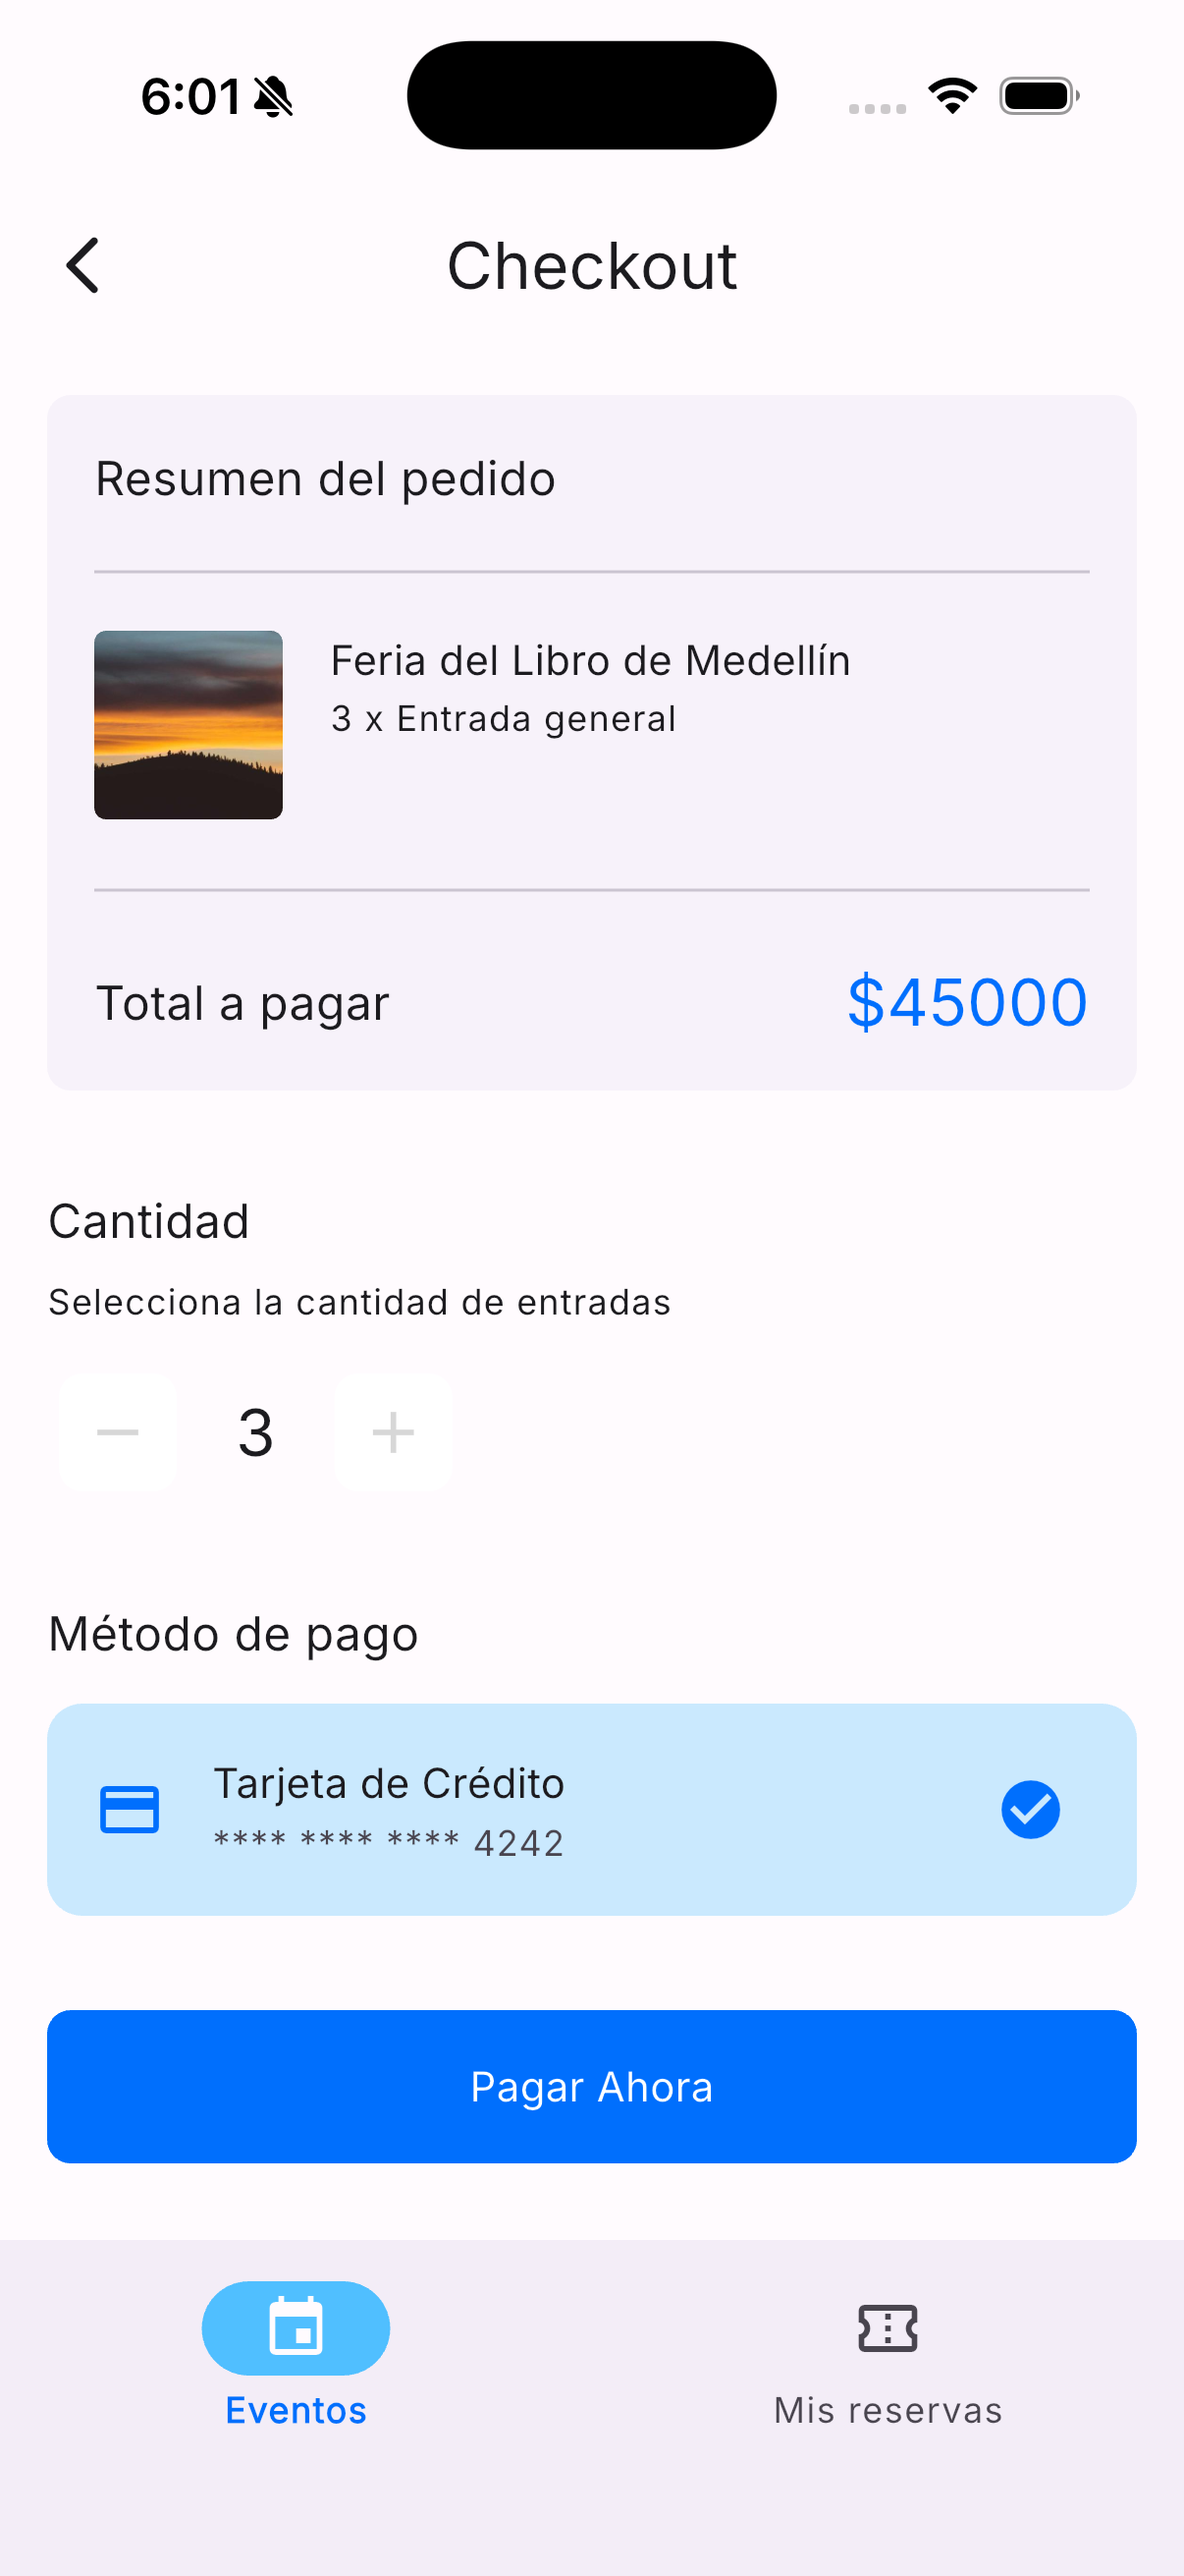
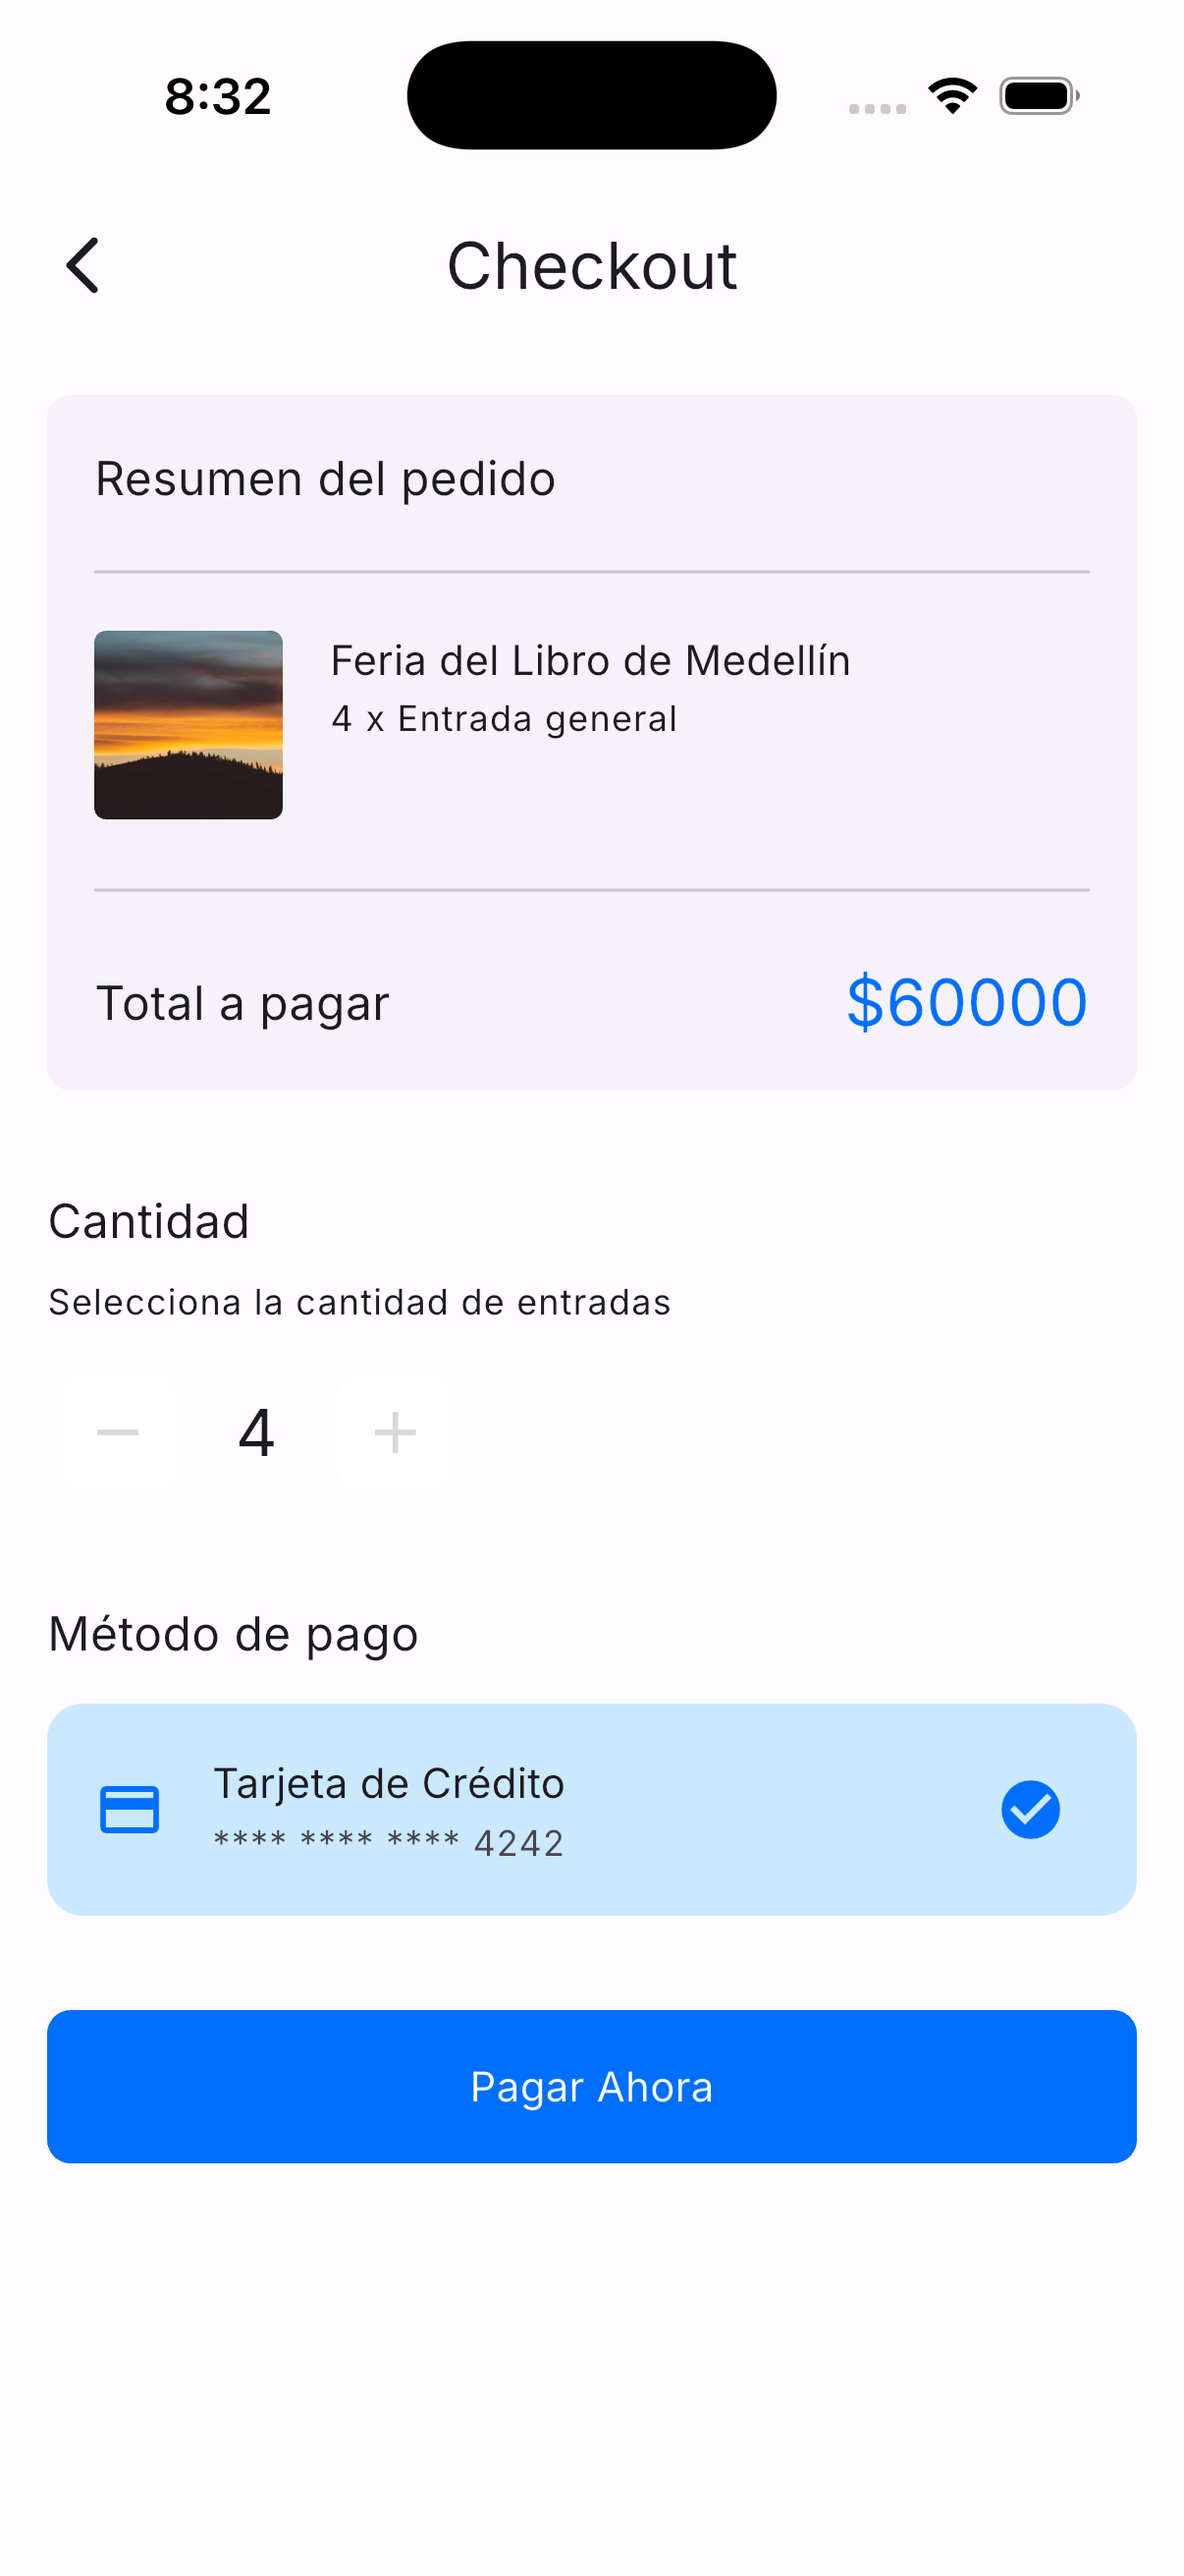
refactor: move detail and booking routes outside navigation shell
Routing: Moved eventDetail and booking routes to the root level in app_router.dart to provide a full-screen experience (removing them from the StatefulShellRoute).
•
Constants: Updated AppRoutes to reflect the new root-level paths.
•
UX: Replaced context.go with context.push for event details and bookings to ensure proper back-stack behavior.
•
Booking Flow: Optimized the post-booking success logic by invalidating bookingListProvider and using a smoother transition to the bookings tab.

diff --git a/lib/core/router/app_router.dart b/lib/core/router/app_router.dart
@@ -78,47 +78,19 @@ GoRouter appRouter(Ref ref) {
       ),
 
       /// Shell con navegación por tabs. Mantiene el estado de cada rama
-      /// gracias a [StatefulShellRoute.indexedStack].
       StatefulShellRoute.indexedStack(
         builder: (context, state, navigationShell) =>
             MainShell(navigationShell: navigationShell),
         branches: [
-          /// Rama 1 — Eventos.
-          ///
-          /// Árbol de rutas:
-          ///   /events
-          ///   /events/detail
-          ///   /events/detail/booking
           StatefulShellBranch(
             routes: [
               GoRoute(
                 path: AppRoutes.events,
                 builder: (_, _) => const EventListPage(),
-                routes: [
-                  GoRoute(
-                    path: AppRoutes.eventDetailPath,
-                    // Recibe un [EventEntity] por `state.extra`.
-                    builder: (_, state) {
-                      final event = state.extra as EventEntity;
-                      return EventDetailPage(event: event);
-                    },
-                    routes: [
-                      GoRoute(
-                        path: AppRoutes.eventBookingPath,
-                        // Recibe un [EventEntity] por `state.extra`.
-                        builder: (_, state) {
-                          final event = state.extra as EventEntity;
-                          return BookingPage(event: event);
-                        },
-                      ),
-                    ],
-                  ),
-                ],
+                // Sin rutas anidadas aquí
               ),
             ],
           ),
-
-          /// Rama 2 — Reservas del usuario.
           StatefulShellBranch(
             routes: [
               GoRoute(
@@ -126,6 +98,23 @@ GoRouter appRouter(Ref ref) {
                 builder: (_, _) => const BookingListPage(),
               ),
             ],
+          ),
+        ],
+      ),
+
+      GoRoute(
+        path: AppRoutes.eventDetail,
+        builder: (_, state) {
+          final event = state.extra as EventEntity;
+          return EventDetailPage(event: event);
+        },
+        routes: [
+          GoRoute(
+            path: AppRoutes.eventBookingPath,
+            builder: (_, state) {
+              final event = state.extra as EventEntity;
+              return BookingPage(event: event);
+            },
           ),
         ],
       ),

diff --git a/lib/features/booking/presentation/pages/booking/booking_page.dart b/lib/features/booking/presentation/pages/booking/booking_page.dart
@@ -1,4 +1,5 @@
 import 'package:app_ui_kit/app_ui_kit.dart';
+import 'package:eventix/features/booking/presentation/pages/booking_list/providers/booking_list_provider.dart';
 import 'package:flutter/material.dart';
 import 'package:flutter_riverpod/flutter_riverpod.dart';
 import 'package:go_router/go_router.dart';
@@ -33,15 +34,13 @@ class BookingPage extends ConsumerWidget {
         isFree: event.isFree,
         eventTitle: event.title,
         totalPrice: totalPrice,
-        onOkPressed: () {
-          context.pop();
+        onOkPressed: () async {
           ref.invalidate(eventsProvider);
-          // 1. Resetea el stack del tab de eventos a su raíz
-          context.go(AppRoutes.events);
-          // 2. Luego navega al tab de bookings
-          WidgetsBinding.instance.addPostFrameCallback((_) {
-            context.go(AppRoutes.bookings);
-          });
+          ref.invalidate(bookingListProvider);
+          context.pop();
+          final router = GoRouter.of(context);
+          await Future.delayed(AppDurations.medium);
+          router.go(AppRoutes.bookings);
         },
       ),
     );

diff --git a/lib/core/router/app_routes.dart b/lib/core/router/app_routes.dart
@@ -5,17 +5,20 @@ abstract class AppRoutes {
 
   // Shell y tabs base
   static const shell = '/home';
-  
-  // Segmentos relativos (usados en la definición de sub-rutas de GoRouter)
+
+  // Segmentos relativos — dentro del shell
   static const eventsPath = 'events';
   static const bookingsPath = 'bookings';
+
+  // Segmentos relativos — fuera del shell
   static const eventDetailPath = 'detail';
   static const eventBookingPath = 'booking';
 
-  // Rutas completas (usadas para navegación: context.go, context.push)
+  // Rutas completas dentro del shell
   static const events = '$shell/$eventsPath';
   static const bookings = '$shell/$bookingsPath';
-  
-  static const eventDetail = '$events/$eventDetailPath';
-  static const eventBooking = '$eventDetail/$eventBookingPath';
+
+  // Rutas completas fuera del shell (nivel raíz)
+  static const eventDetail = '/detail';
+  static const eventBooking = '/detail/$eventBookingPath';
 }

diff --git a/lib/features/events/presentation/pages/event_detail/event_detail_page.dart b/lib/features/events/presentation/pages/event_detail/event_detail_page.dart
@@ -61,7 +61,7 @@ class EventDetailPage extends StatelessWidget {
         action: event.bookingAction,
         onPressed: event.isBookable
             ? () {
-                context.go(AppRoutes.eventBooking, extra: event);
+                context.push(AppRoutes.eventBooking, extra: event);
               }
             : null,
       ),

diff --git a/lib/features/events/presentation/pages/event_list/widgets/list_body/widgets/event_list_item.dart b/lib/features/events/presentation/pages/event_list/widgets/list_body/widgets/event_list_item.dart
@@ -21,7 +21,7 @@ class EventListItem extends StatelessWidget {
         price: event.price.toInt().toString(),
         isFree: event.isFree,
       ),
-      onTap: () => context.go(AppRoutes.eventDetail, extra: event),
+      onTap: () => context.push(AppRoutes.eventDetail, extra: event),
     );
   }
 }

diff --git a/README.md b/README.md
@@ -133,9 +133,9 @@ La navegación se implementa con Go Router y un shell de navegación por tabs.
 - `/login`: Login.
 - `/register`: Registro.
 - `/home/events`: listado de eventos.
-- `/home/events/detail`: detalle del evento.
-- `/home/events/detail/booking`: pantalla de reserva.
 - `/home/bookings`: listado de reservas.
+- `/detail`: detalle del evento.
+- `/detail/booking`: pantalla de reserva.
 
 ### Comportamiento destacado
 
@@ -143,6 +143,7 @@ La navegación se implementa con Go Router y un shell de navegación por tabs.
 - Si el usuario no está autenticado, se fuerza la navegación a login.
 - Si está autenticado, se dirige a la rama principal de eventos.
 - Se usa `StatefulShellRoute.indexedStack` para mantener el estado de las ramas de navegación.
+- Las pantallas de detalle y reserva se encuentran fuera del Shell para ofrecer una experiencia de pantalla completa.
 
 ```mermaid
 flowchart TD
@@ -152,7 +153,7 @@ flowchart TD
     C --> D
     D --> E[Tab: Eventos]
     D --> F[Tab: Mis Reservas]
-    E --> G[Event Detail]
+    E -.-> G[Event Detail]
     G --> H[Booking / Confirmación]
 ```
 
